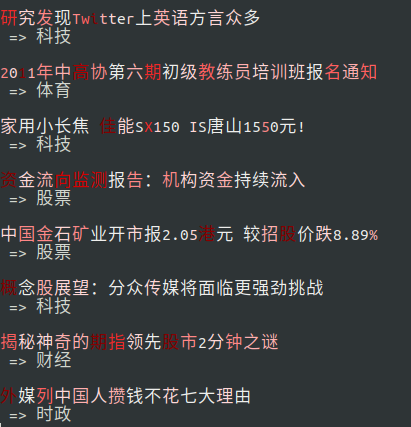
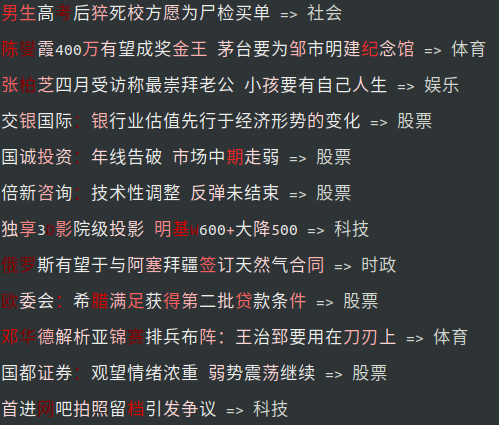
Add match model of triplet loss

diff --git a/match_triplet.py b/match_triplet.py
@@ -1,0 +1,240 @@
+import warnings
+warnings.filterwarnings("ignore")
+import numpy as np
+import matplotlib.pyplot as plt
+import tensorflow as tf
+
+# physical_devices = tf.config.experimental.list_physical_devices("GPU")
+# assert len(physical_devices) > 0, "Not enough GPU hardware devices available"
+# tf.config.experimental.set_memory_growth(physical_devices[0], True)
+
+from tensorflow.keras.preprocessing import sequence
+from tensorflow.keras.models import Model
+from tensorflow.keras.layers import *
+from sklearn.model_selection import train_test_split
+from sklearn import metrics
+
+from attentionpooling import AttentionPooling1D
+from dataset import SimpleTokenizer, find_best_maxlen
+from dataset import load_lcqmc, convert_to_triplet
+
+# 来自Transformer的激活函数，效果略有提升
+def gelu(x):
+    return 0.5 * x * (1.0 + tf.math.erf(x / tf.sqrt(2.0)))
+
+class PositionEmbedding(tf.keras.layers.Layer):
+    """可学习的位置Embedding"""
+
+    def __init__(self, maxlen, output_dim, **kwargs):
+        super(PositionEmbedding, self).__init__(**kwargs)
+        self.maxlen = maxlen
+        self.output_dim = output_dim
+        self.embedding = tf.keras.layers.Embedding(
+            input_dim=maxlen,
+            output_dim=output_dim
+        )
+
+    def call(self, inputs):
+        # maxlen = tf.shape(inputs)[-1]
+        positions = tf.range(start=0, limit=self.maxlen, delta=1)
+        positions = tf.expand_dims(positions, axis=0)
+        return self.embedding(positions)
+
+    def compute_output_shape(self, input_shape):
+        return input_shape + (self.output_dim,)
+
+class MatchLayer(tf.keras.layers.Layer):
+
+    def __init__(self, **kwargs):
+        super(MatchLayer, self).__init__(**kwargs)
+        self.o_dense = Dense(1)
+
+    def call(self, inputs):
+        x1, x2 = inputs
+        # x*y
+        x3 = Multiply()([x1, x2])
+        # |x-y|
+        x4 = Lambda(lambda x: tf.abs(x[0] - x[1]))([x1, x2])
+
+        x = Concatenate()([x1, x2, x3, x4])
+        x = self.o_dense(x)
+        return x
+
+class TripletLossLayer(tf.keras.layers.Layer):
+
+    def __init__(self, similar, margin=10.0, **kwargs):
+        super(TripletLossLayer, self).__init__(**kwargs)
+        self.similar = similar # similar in a batch
+        self.margin = tf.cast(margin, tf.float32)
+
+    def call(self, inputs, mask=None):
+        xa, xp, xn = inputs
+        ploss = self.similar([xa, xp]) # 尽可能缩小
+        nloss = self.similar([xa, xn]) # 尽可能增大
+        loss = tf.math.maximum(ploss - nloss + self.margin, 0.0)
+        self.add_loss(tf.reduce_mean(loss))
+        return loss
+
+Xa, Xp, Xn, classes = convert_to_triplet(load_lcqmc)
+Xa_train = Xa[:-1000]
+Xp_train = Xp[:-1000]
+Xn_train = Xn[:-1000]
+
+Xa_test = Xa[:-1000]
+Xp_test = Xp[:-1000]
+Xn_test = Xn[:-1000]
+
+num_classes = len(classes)
+tokenizer = SimpleTokenizer()
+tokenizer.fit(Xa)
+
+def pad(X, maxlen):
+    X = sequence.pad_sequences(
+        X, 
+        maxlen=maxlen,
+        dtype="int32",
+        padding="post",
+        truncating="post",
+        value=0
+    )
+    return X
+
+def create_dataset(Xa, Xp, Xn, maxlen):
+    Xa = tokenizer.transform(Xa)
+    Xp = tokenizer.transform(Xp)
+    Xn = tokenizer.transform(Xn)
+
+    Xa = pad(Xa, maxlen)
+    Xp = pad(Xp, maxlen)
+    Xn = pad(Xn, maxlen)
+    return Xa, Xp, Xn
+
+maxlen = find_best_maxlen(Xa)
+maxlen = 48
+hdims = 128
+epochs = 1
+num_words = len(tokenizer)
+embedding_dims = 128
+
+x1_input = Input(shape=(maxlen,))
+x2_input = Input(shape=(maxlen,))
+x3_input = Input(shape=(maxlen,))
+# 计算全局mask
+x1_mask = Lambda(lambda x: tf.not_equal(x, 0))(x1_input)
+x2_mask = Lambda(lambda x: tf.not_equal(x, 0))(x2_input)
+x3_mask = Lambda(lambda x: tf.not_equal(x, 0))(x3_input)
+
+embedding = Embedding(
+    num_words,
+    embedding_dims,
+    embeddings_initializer="glorot_normal",
+    input_length=maxlen
+)
+# 加上position embedding后，val acc:90%+
+posembedding = PositionEmbedding(maxlen, embedding_dims)
+layernom = LayerNormalization()
+
+x1 = embedding(x1_input) + posembedding(x1_input)
+x1 = layernom(x1)
+x1 = Dropout(0.1)(x1)
+
+x2 = embedding(x2_input) + posembedding(x2_input)
+x2 = layernom(x2)
+x2 = Dropout(0.1)(x2)
+
+x3 = embedding(x3_input) + posembedding(x3_input)
+x3 = layernom(x3)
+x3 = Dropout(0.1)(x3)
+
+conv1 = Conv1D(filters=hdims, kernel_size=2, padding="same", activation=gelu)
+conv2 = Conv1D(filters=hdims, kernel_size=3, padding="same", activation=gelu)
+conv3 = Conv1D(filters=hdims, kernel_size=4, padding="same", activation=gelu)
+
+x1 = conv1(x1) + x1
+x1 = conv2(x1) + x1
+x1 = conv3(x1) + x1
+
+x2 = conv1(x2) + x2
+x2 = conv2(x2) + x2
+x2 = conv3(x2) + x2
+
+x3 = conv1(x3) + x3
+x3 = conv2(x3) + x3
+x3 = conv3(x3) + x3
+
+pool = AttentionPooling1D(hdims)
+x1, w1 = pool(x1, mask=x1_mask)
+x2, w2 = pool(x2, mask=x2_mask)
+x3, w3 = pool(x3, mask=x3_mask)
+
+similar = MatchLayer()
+outputs = TripletLossLayer(similar)([x1, x2, x3])
+
+model = Model([x1_input, x2_input, x3_input], outputs)
+model.summary()
+
+lr = tf.keras.optimizers.schedules.PiecewiseConstantDecay(
+    boundaries=[0, 2, 6],
+    values=[2*1e-3, 0.8*1e-3, 0.5*1e-3, 1e-4]
+)
+adam = tf.keras.optimizers.Adam(lr)
+model.compile(optimizer="adam")
+# model.compile(loss="categorical_crossentropy", optimizer=adam, metrics=["accuracy"])
+
+Xa_train, Xp_train, Xn_train = create_dataset(Xa_train, Xp_train, Xn_train, maxlen)
+
+model.fit(
+    [Xa_train, Xp_train, Xn_train],
+    shuffle=True,
+    batch_size=32,
+    epochs=epochs,
+    validation_split=0.1
+)
+
+model_pooling_outputs = Model([x1_input, x2_input, x3_input], [w1, w2, w3])
+
+score = similar([x1, x2])
+model_match_score_outputs = Model([x1_input, x2_input], score)
+
+id_to_classes = {j:i for i,j in classes.items()}
+from textcolor import print_color_text
+def visualization():
+    for xa, xp, xn in zip(Xa_test, Xp_test, Xn_test):
+        xa_len = len(xa)
+        xp_len = len(xp)
+        xn_len = len(xn)
+
+        x1 = np.array(tokenizer.transform([xa]))
+        x1 = pad(x1, maxlen)
+
+        x2 = np.array(tokenizer.transform([xp]))
+        x2 = pad(x2, maxlen)
+
+        x3 = np.array(tokenizer.transform([xn]))
+        x3 = pad(x3, maxlen)
+
+        y_pred = model.predict([x1, x2, x3])[0]
+
+        score1 = model_match_score_outputs.predict([x1, x2])[0]
+        score2 = model_match_score_outputs.predict([x1, x3])[0]
+
+        # 预测权重
+        w1, w2, w3 = model_pooling_outputs.predict([x1, x2, x3])
+        w1 = w1[0]
+        w2 = w2[0]
+        w3 = w3[0]
+        w1 = w1.flatten()[:xa_len]
+        w2 = w2.flatten()[:xp_len]
+        w3 = w3.flatten()[:xn_len]
+        # print("triplet loss:", y_pred)
+        print_color_text(xa, w1)
+        print_color_text(xp, w2, withend=False)
+        print("  match score:", score1)
+        print_color_text(xn, w3, withend=False)
+        print("  match score:", score2)
+        print()
+
+        input() # 按回车预测下一个样本
+
+visualization()
+

diff --git a/model_as_match.py b/model_as_match.py
@@ -20,6 +20,7 @@ from dataset import SimpleTokenizer, find_best_maxlen
 from dataset import load_THUCNews_title_label
 
 # 把分类问题当做文本与标签匹配的问题
+# 0.9232
 
 # 来自Transformer的激活函数，效果略有提升
 def gelu(x):
@@ -49,6 +50,7 @@ class PositionEmbedding(tf.keras.layers.Layer):
 X, y, classes = load_THUCNews_title_label()
 
 def convert_to_pairs(X, y, classes):
+    # 转化句子和标题（标签）匹配问题
     iclasses = {i:label for label, i in classes.items()}
     X1 = []
     X2 = []
@@ -85,7 +87,7 @@ X2_train = tokenizer.transform(X2_train)
 
 maxlen = 48
 hdims = 128
-epochs = 1
+epochs = 2
 
 X1_train = sequence.pad_sequences(
     X1_train, 

diff --git a/README.md b/README.md
@@ -81,6 +81,12 @@ class AttentionPooling1D(tf.keras.layers.Layer):
 
 ![](asset/attention_pooling_demo_6.png)
 
+
+文本匹配Attentionpooling可视化示例三，使用triplet loss，
+
+![](asset/attention_pooling_demo_7.png)
+
+
 ## 基于交互的匹配示例
 
 示例一，
